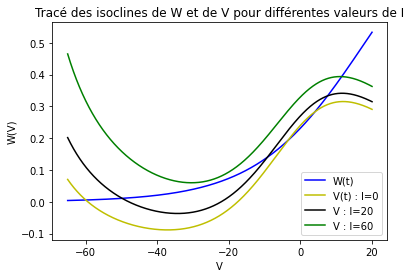
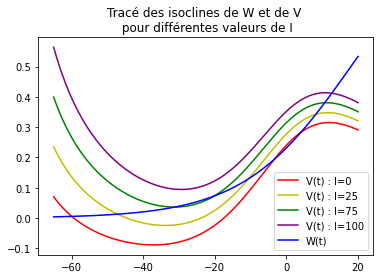
correction pb chargement bibliothèque np et sp

Changed region(s): [[0.0, 0.0, 0.9842, 0.9784], [0.0289, 0.5468, 0.1447, 0.6331], [0.7526, 0.2878, 0.7816, 0.3165]]

diff --git a/NC-project.py b/NC-project.py
@@ -6,7 +6,7 @@ Created on Fri Apr 22 13:12:43 2022
 """
 
 from numpy import *
-from sympy import *
+import sympy as sp
 import matplotlib.pyplot as plt
 
 
@@ -45,28 +45,28 @@ class ML():
     def to_inf(self, V):
         return 1/(cosh((V-self.V3)/(2*self.V4)))
 
-    def V_null(self, V):
-        return (-self.gCa*(0.5*(1+tanh((V-self.V1)/self.V2)))*(V-self.ECa)-self.gK*self.W*(V-self.ECa)-self.gL*(V-self.EL)+self.I)/self.C
-
     def W_null(self, V):
         return self.gamma*(self.w_inf(V)-self.W/self.to_inf(V))
 
-    def V_nullcline(self, V):
+    def V_null(self, V, I):
         #return(-gCa*((1+tanh((V-V1)/V2))/2)*(V-ECa)-gL*(V-EL)+I)/gK*(V-EK)
-        return (self.I - self.gL*(V-self.EL)-self.gCa*((1 + tanh((V -self.V1)/self.V2))/2)*(V-self.ECa))/(self.gK*(V-self.EK))
+        return (I - self.gL*(V-self.EL)-self.gCa*((1 + tanh((V -self.V1)/self.V2))/2)*(V-self.ECa))/(self.gK*(V-self.EK))
     
     #==========================================================================
     def isoclines(self, Imin, Imax, nI):
         """draw model's isoclines, for n different values of I between Imin and Imax
         """
         V=self.V
-        color=['r-', 'b-', 'y-', 'g-', 'p-']
-        for I in range(Imin, Imax+1, (Imax+1-Imin)//nI ):
-            plt.plot(V, self.V_null(V), color[I%len(color)])
-        plt.legend(['W(t)', 'V(t) : I=0', 'V : I=20', 'V : I=60'])
-        plt.title("Tracé des isoclines de W et de V pour différentes valeurs de I")
+        color=['r-', 'y-', 'g-', 'purple', 'black']
+        h=(Imax-Imin)//nI
+        for I in range(Imin, Imax, h ):
+            plt.plot(V, self.V_null(V, I), (10*color)[I%4])
+            print(I)
+            print("c", I%h)
+        plt.plot(V, self.w_inf(V), "b-")
+        plt.legend(['V(t) : I=0', 'V(t) : I=25', 'V(t) : I=75', 'V(t) : I=100', 'W(t)'])
+        plt.title("Tracé des isoclines de W et de V \n pour différentes valeurs de I")
         plt.show()
-        pass
     
     def V_intersept(self, iso1, iso2):
         """return nulcline intersection coordinates.
@@ -144,5 +144,5 @@ class ML():
 if __name__ == '__main__':
     
     ml = ML()
-    ml.isoclines(0,100,10)
+    ml.isoclines(0, 100, 4)
    

diff --git a/NC-PROJET.py b/NC-PROJET.py
@@ -6,10 +6,7 @@ Created on Sat Apr 16 16:59:37 2022
 """
 
 from numpy import *
-#import numpy as np
-from sympy import *
-
-#import simpy as sp
+import sympy as sp
 import matplotlib.pyplot as plt
 
 EL=-60
@@ -72,17 +69,17 @@ V = linspace(-65,20,1000)
 
 
 
-#y2=w_inf(V)
+y2=w_inf(V)
 y3 = V_nullcline1(V)
-# y4 = V_nullcline2(V)
-# y5 = V_nullcline3(V)
+y4 = V_nullcline2(V)
+y5 = V_nullcline3(V)
 
 
 
-# plt.plot(V, y2, 'b-')
+plt.plot(V, y2, 'b-')
 plt.plot(V, y3, 'y-')
-# plt.plot(V, y4, 'black')
-# plt.plot(V, y5, 'g-')
+plt.plot(V, y4, 'black')
+plt.plot(V, y5, 'g-')
 
 plt.xlabel('V')
 plt.ylabel('W(V)')
@@ -198,7 +195,7 @@ class ML():
         """
         return array([[-8*w + (v - 120)*(0.122222222222222*tanh(v/18 + 0.0666666666666667)**2 - 0.122222222222222) - 2.2*tanh(v/18 + 0.0666666666666667) - 4.2,
           960 - 8*v], 
-         [(0.000666666666666667 - 0.000666666666666667*tanh(v/30 - 3/5)**2)*cosh(v/60 - 1/30) + (-0.04*w + 0.02*tanh(v/30 - 3/5) + 0.02)*sinh(v/60 - 1/30)/60, 
+          [(0.000666666666666667 - 0.000666666666666667*tanh(v/30 - 3/5)**2)*cosh(v/60 - 1/30) + (-0.04*w + 0.02*tanh(v/30 - 3/5) + 0.02)*sinh(v/60 - 1/30)/60, 
           -0.04*cosh(v/60 - 1/30)]],dtype=float)
 
     def steady_point(self):
